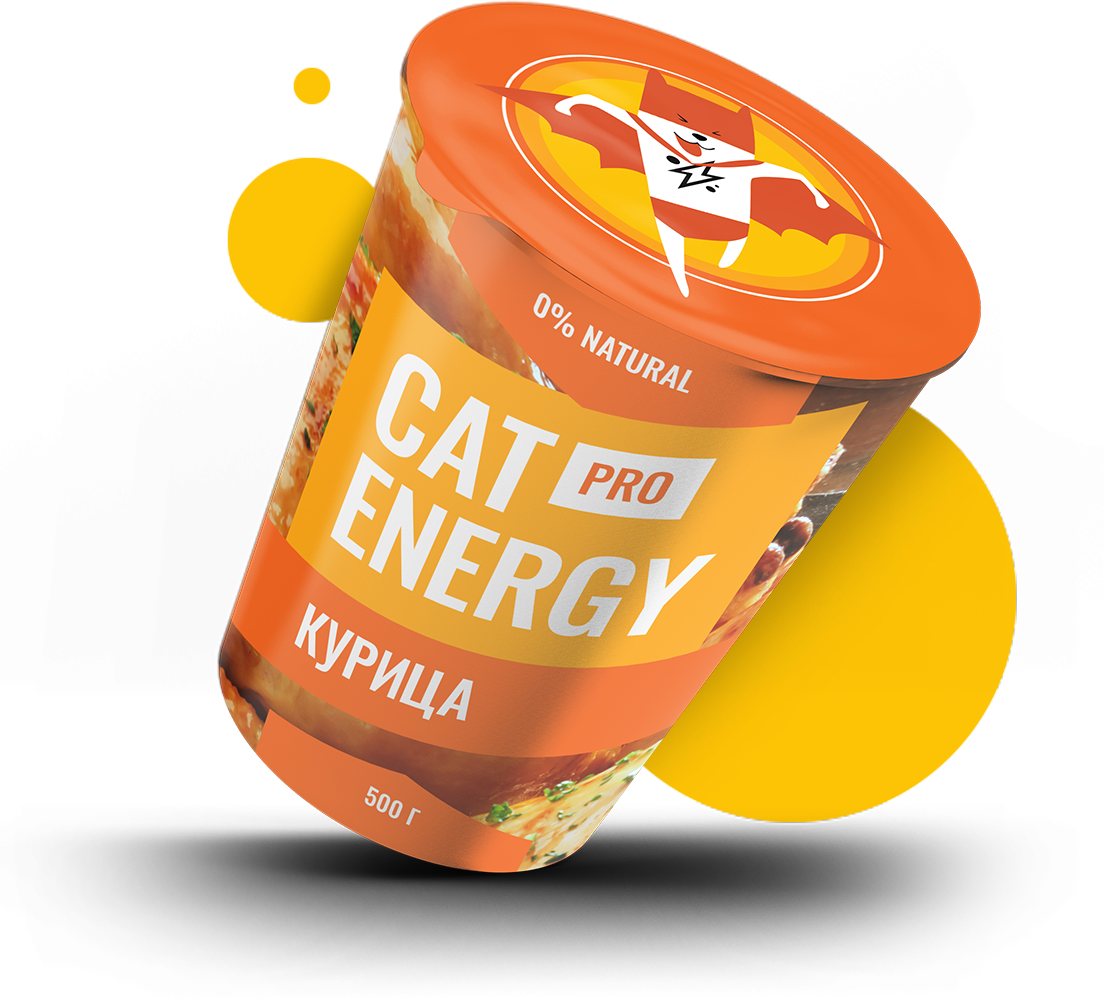
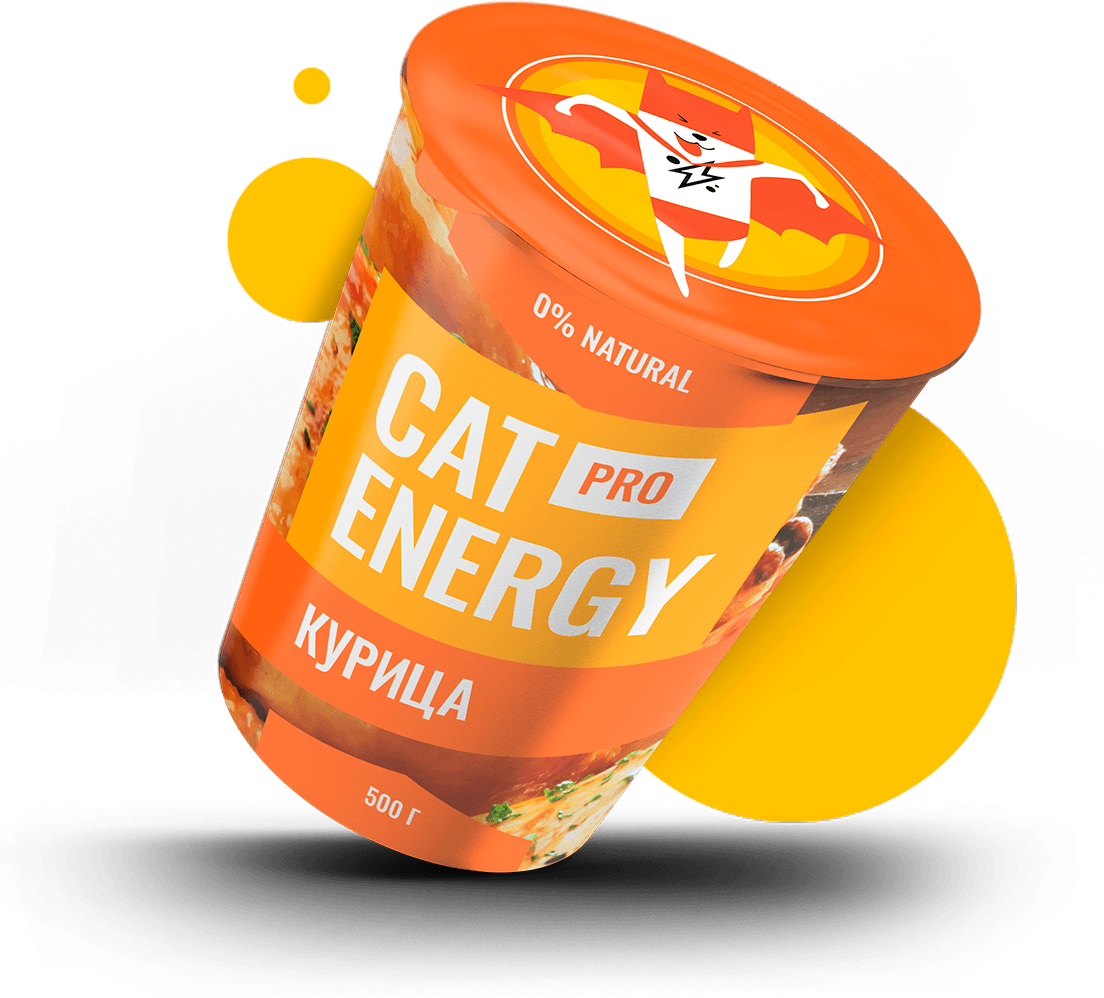
Адаптивная графика добавление изображений

diff --git a/source/catalog.html b/source/catalog.html
@@ -26,7 +26,9 @@
             <a href="index.html" class="site-navigation__link site-navigation__link--black">Главная</a>
           </li>
           <li class="site-navigation__item">
-            <a href="catalog.html" class="site-navigation__link site-navigation__link--black site-navigation__link--current-green site-navigation__link--current">Каталог продукции</a>
+            <a href="catalog.html"
+              class="site-navigation__link site-navigation__link--black site-navigation__link--current-green site-navigation__link--current">Каталог
+              продукции</a>
           </li>
           <li class="site-navigation__item">
             <a href="form.html" class="site-navigation__link site-navigation__link--black">Подбор программы</a>
@@ -42,9 +44,12 @@
         <ul class="catalog-list">
           <li class="catalog-list__item catalog-item">
             <picture class="catalog-item__picture">
-              <source media="(min-width: 1300px)" srcset="img/chicken-small-desktop@1x.png">
-              <source media="(min-width: 768px)" srcset="img/chicken-small-tablet@1x.png">
-              <img class="catalog-item__image" src="img/chicken-small-mobile@1x.jpg" width="140" height="144"
+              <source type="image/webp" media="(min-width: 1300px)" srcset="img/chicken-small-desktop@1x.webp 1x, img/chicken-small-desktop@2x.webp 2x">
+              <source type="image/webp" media="(min-width: 768px)" srcset="img/chicken-small-tablet@1x.webp 1x, img/chicken-small-tablet@2x.webp 2x">
+              <source type="image/webp" srcset="img/chicken-small-mobile@1x.webp 1x, img/chicken-small-mobile@2x.webp 2x">
+              <source media="(min-width: 1300px)" srcset="img/chicken-small-desktop@1x.png 1x, img/chicken-small-desktop@2x.png 2x">
+              <source media="(min-width: 768px)" srcset="img/chicken-small-tablet@1x.png 1x, img/chicken-small-tablet@2x.png 2x">
+              <img class="catalog-item__image" src="img/chicken-small-mobile@1x.jpg 1x" srcset="img/chicken-small-mobile@2x.jpg 2x" width="140" height="144"
                 alt="Продукт со вкусом курица">
             </picture>
             <div class="catalog-item__content">
@@ -83,9 +88,12 @@
           </li>
           <li class="catalog-list__item catalog-item">
             <picture class="catalog-item__picture">
-              <source media="(min-width: 1300px)" srcset="img/chicken-big-desktop@1x.png">
-              <source media="(min-width: 768px)" srcset="img/chicken-big-tablet@1x.png">
-              <img class="catalog-item__image" src="img/chicken-big-mobile@1x.jpg" width="140" height="144"
+              <source type="image/webp" media="(min-width: 1300px)" srcset="img/chicken-big-desktop@1x.webp 1x, img/chicken-big-desktop@2x.webp 2x">
+              <source type="image/webp" media="(min-width: 768px)" srcset="chicken-big-tablet@1x.webp 1x, img/chicken-big-tablet@2x.webp 2x">
+              <source type="image/webp" srcset="img/chicken-big-mobile@1x.jpg 1x, img/chicken-big-mobile@2x.webp 2x">
+              <source media="(min-width: 1300px)" srcset="img/chicken-big-desktop@1x.png 1x, img/chicken-big-desktop@2x.png 2x">
+              <source media="(min-width: 768px)" srcset="img/chicken-big-tablet@1x.png 1x, img/chicken-big-tablet@2x.png 2x">
+              <img class="catalog-item__image" src="img/chicken-big-mobile@1x.jpg 1x" srcset="img/chicken-big-mobile@2x.jpg 2x" width="140" height="144"
                 alt="Продукт со вкусом курица">
             </picture>
             <div class="catalog-item__content">
@@ -124,9 +132,12 @@
           </li>
           <li class="catalog-list__item catalog-item">
             <picture class="catalog-item__picture">
-              <source media="(min-width: 1300px)" srcset="img/fish-small-desktop@1x.png">
-              <source media="(min-width: 768px)" srcset="img/fish-small-tablet@1x.png">
-              <img class="catalog-item__image" src="img/fish-small-mobile@1x.jpg" alt="Продукт со вкусом курица"
+              <source type="image/webp" media="(min-width: 1300px)" srcset="img/fish-small-desktop@1x.webp 1x, img/fish-small-desktop@2x.webp 2x">
+              <source type="image/webp" media="(min-width: 768px)" srcset="img/fish-small-tablet@1x.webp 1x, img/fish-small-tablet@2x.webp 2x">
+              <source type="image/webp" srcset="img/fish-small-mobile@1x.webp 1x, img/fish-small-mobile@2x.webp 2x">
+              <source media="(min-width: 1300px)" srcset="img/fish-small-desktop@1x.png 1x, img/fish-small-desktop@2x.png 2x">
+              <source media="(min-width: 768px)" srcset="img/fish-small-tablet@1x.png 1x, img/fish-small-tablet@2x.png 2x">
+              <img class="catalog-item__image" src="img/fish-small-mobile@1x.jpg 1x" srcset="img/fish-small-mobile@2x.jpg 2x" alt="Продукт со вкусом курица"
                 width="140" height="144">
             </picture>
             <div class="catalog-item__content">
@@ -165,9 +176,12 @@
           </li>
           <li class="catalog-list__item catalog-item">
             <picture class="catalog-item__picture">
-              <source media="(min-width: 1300px)" srcset="img/fish-big-desktop@1x.png">
-              <source media="(min-width: 768px)" srcset="img/fish-big-tablet@1x.png">
-              <img class="catalog-item__image" src="img/fish-big-mobile@1x.jpg" alt="Продукт со вкусом курица"
+              <source type="image/webp" media="(min-width: 1300px)" srcset="img/fish-big-desktop@1x.webp 1x, img/fish-big-desktop@2x.webp 2x">
+              <source type="image/webp" media="(min-width: 768px)" srcset="img/fish-big-tablet@1x.webp 1x, img/fish-big-tablet@2x.webp 2x">
+              <source type="image/webp" srcset="img/fish-big-mobile@1x.webp 1x, img/fish-big-mobile@2x.webp 2x">
+              <source media="(min-width: 1300px)" srcset="img/fish-big-desktop@1x.png 1x, img/fish-big-desktop@2x.png 2x">
+              <source media="(min-width: 768px)" srcset="img/fish-big-tablet@1x.png 1x, img/fish-big-tablet@2x.png 2x">
+              <img class="catalog-item__image" src="img/fish-big-mobile@1x.jpg 1x" srcset="img/fish-big-mobile@2x.jpg 2x" alt="Продукт со вкусом курица"
                 width="140" height="144">
             </picture>
             <div class="catalog-item__content">
@@ -206,9 +220,12 @@
           </li>
           <li class="catalog-list__item catalog-item">
             <picture class="catalog-item__picture">
-              <source media="(min-width: 1300px)" srcset="img/buckwheat-small-desktop@1x.png">
-              <source media="(min-width: 768px)" srcset="img/buckwheat-small-tablet@1x.png">
-              <img class="catalog-item__image" src="img/buckwheat-small-mobile@1x.jpg" alt="Продукт со вкусом курица"
+              <source type="image/webp" media="(min-width: 1300px)" srcset="img/buckwheat-small-desktop@1x.webp 1x, img/buckwheat-small-desktop@2x.webp 2x">
+              <source type="image/webp" media="(min-width: 768px)" srcset="img/buckwheat-small-tablet@1x.webp 1x, img/buckwheat-small-tablet@2x.webp 2x">
+              <source type="image/webp" srcset="img/buckwheat-small-mobile@1x.webp 1x, img/buckwheat-small-mobile@2x.webp 2x">
+              <source media="(min-width: 1300px)" srcset="img/buckwheat-small-desktop@1x.png 1x, img/buckwheat-small-desktop@2x.png 2x">
+              <source media="(min-width: 768px)" srcset="img/buckwheat-small-tablet@1x.png 1x, img/buckwheat-small-tablet@2x.png 2x">
+              <img class="catalog-item__image" src="img/buckwheat-small-mobile@1x.jpg 1x" srcset="img/buckwheat-small-mobile@2x.jpg 2x" alt="Продукт со вкусом курица"
                 width="140" height="144">
             </picture>
             <div class="catalog-item__content">
@@ -247,9 +264,12 @@
           </li>
           <li class="catalog-list__item catalog-item">
             <picture class="catalog-item__picture">
-              <source media="(min-width: 1300px)" srcset="img/buckwheat-big-desktop@1x.png">
-              <source media="(min-width: 768px)" srcset="img/buckwheat-big-tablet@1x.png">
-              <img class="catalog-item__image" src="img/buckwheat-big-mobile@1x.jpg" alt="Продукт со вкусом курица"
+              <source type="image/webp" media="(min-width: 1300px)" srcset="img/buckwheat-big-desktop@1x.webp 1x, img/buckwheat-big-desktop@2x.webp 2x">
+              <source type="image/webp" media="(min-width: 768px)" srcset="img/buckwheat-big-tablet@1x.webp 1x, img/buckwheat-big-tablet@2x.webp 2x">
+              <source type="image/webp" srcset="img/buckwheat-big-mobile@1x.webp 1x, img/buckwheat-big-mobile@2x.webp 2x">
+              <source media="(min-width: 1300px)" srcset="img/buckwheat-big-desktop@1x.png 1x, img/buckwheat-big-desktop@2x.png 2x">
+              <source media="(min-width: 768px)" srcset="img/buckwheat-big-tablet@1x.png 1x, img/buckwheat-big-tablet@2x.png 2x">
+              <img class="catalog-item__image" src="img/buckwheat-big-mobile@1x.jpg 1x" srcset="img/buckwheat-big-mobile@2x.jpg 2x" alt="Продукт со вкусом курица"
                 width="140" height="144">
             </picture>
             <div class="catalog-item__content">
@@ -288,9 +308,12 @@
           </li>
           <li class="catalog-list__item catalog-item">
             <picture class="catalog-item__picture">
-              <source media="(min-width: 1300px)" srcset="img/rice-small-desktop@1x.png">
-              <source media="(min-width: 768px)" srcset="img/rice-small-tablet@1x.png">
-              <img class="catalog-item__image" src="img/rice-small-mobile@1x.jpg" alt="Продукт со вкусом курица"
+              <source type="image/webp" media="(min-width: 1300px)" srcset="img/rice-small-desktop@1x.webp 1x, img/rice-small-desktop@2x.webp 2x">
+              <source type="image/webp" media="(min-width: 768px)" srcset="img/rice-small-tablet@1x.webp 1x, img/rice-small-tablet@2x.webp 2x">
+              <source type="image/webp" srcset="img/rice-small-mobile@1x.webp 1x, img/rice-small-mobile@2x.webp 2x">
+              <source media="(min-width: 1300px)" srcset="img/rice-small-desktop@1x.png 1x, img/rice-small-desktop@2x.png 2x">
+              <source media="(min-width: 768px)" srcset="img/rice-small-tablet@1x.png 1x, img/rice-small-tablet@2x.png 2x">
+              <img class="catalog-item__image" src="img/rice-small-mobile@1x.jpg 1x" srcset="img/rice-small-mobile@2x.jpg 2x" alt="Продукт со вкусом курица"
                 width="140" height="144">
             </picture>
             <div class="catalog-item__content">
@@ -406,10 +429,13 @@
     </div>
     <div class="map-block">
       <picture class="map-block__picture">
-        <source media="(min-width: 1300px)" srcset="img/bg-map-desktop@1x.png">
-        <source media="(min-width: 768px)" srcset="img/bg-map-tablet@1x.png">
-        <img class="map-block__image" src="img/bg-map-mobile@1x.png" width="320" height="365"
-          alt="Адрес местонахождения компании">
+        <source type="image/webp" media="(min-width: 1300px)" srcset="img/bg-map-desktop@1x.webp 1x, img/bg-map-desktop@2x.webp 2x">
+        <source type="image/webp" media="(min-width: 768px)" srcset="img/bg-map-tablet@1x.webp 1x, img/bg-map-tablet@2x.webp 2x">
+        <source type="image/webp" srcset="img/bg-map-mobile@1x.webp 1x, img/bg-map-mobile@2x.webp 2x">
+        <source media="(min-width: 1300px)" srcset="img/bg-map-desktop@1x.jpg 1x, img/img/bg-map-desktop@2x.jpg 2x">
+        <source media="(min-width: 768px)" srcset="img/bg-map-tablet@1x.jpg 1x, img/bg-map-tablet@2x.jpg 2x">
+        <img class="map-block__image" src="img/bg-map-mobile@1x.jpg 1x" srcset="img/bg-map-mobile@2x.jpg 2x" width="320"
+          height="365" alt="Адрес местонахождения компании">
       </picture>
     </div>
   </section>

diff --git a/source/index.html b/source/index.html
@@ -34,9 +34,9 @@
         </ul>
       </nav>
     </div>
-    <div class="page-header__block-green">
+    <!-- <div class="page-header__block-green">
 
-    </div>
+    </div> -->
   </header>
   <main class="page-main">
     <section class="promo">
@@ -45,10 +45,16 @@
           <h1 class="promo__title">Функциональное питание для котов</h1>
           <p class="promo__subtitle">Занялся собой? Займись котом!</p>
           <picture class="promo__picture">
-            <source media="(min-width: 1300px)" srcset="img/index-can-desktop@1x.png">
-            <source media="(min-width: 768px)" srcset="img/index-can-tablet@1x.jpg">
-            <img class="promo__image" src="img/index-can-mobile@1x.png" width="280" height="270"
-              alt="Магазин Cat Energy">
+            <source type="image/webp" media="(min-width: 1300px)"
+              srcset="img/index-can-desktop@1x.webp 1x, img/index-can-desktop@2x.webp 2x">
+            <source type="image/webp" media="(min-width: 768px)"
+              srcset="img/index-can-tablet@1x.webp 1x, img/index-can-tablet@2x.webp 2x">
+            <source type="image/webp" srcset="img/index-can-mobile@1x.webp 1x, img/index-can-mobile@2x.webp 2x">
+            <source media="(min-width: 1300px)"
+              srcset="img/index-can-desktop@1x.png 1x, img/index-can-desktop@2x.png 2x">
+            <source media="(min-width: 768px)" srcset="img/index-can-tablet@1x.jpg 1x, img/index-can-tablet@2x.jpg 2x">
+            <img class="promo__image" src="img/index-can-mobile@1x.png 1x" srcset="img/index-can-mobile@2x.png 2x"
+              width="280" height="270" alt="Магазин Cat Energy">
           </picture>
           <a href="#" class="promo__link button">Подобрать программу</a>
         </div>
@@ -77,7 +83,6 @@
           </li>
         </ul>
       </section>
-
       <section class="how-it-works">
         <h2 class="how-it-works__title">Как это работает</h2>
         <ul class="how-it-works__steps">
@@ -136,18 +141,28 @@
         <div class="example__preview">
           <div class="example__image-before">
             <picture class="example__picture">
-              <source media="(min-width: 1300px)" srcset="img/before-desktop@1x.png">
-              <source media="(min-width: 768px)" srcset="img/before-tablet@1x.png">
-              <img class="example__picture-image" src="img/before-mobile@1x.png" width="311" height="232"
-                alt="Кот который жирный">
+              <source type="image/webp" media="(min-width: 1300px)"
+                srcset="img/before-desktop@1x.webp 1x, img/before-desktop@2x.webp 2x">
+              <source type="image/webp" media="(min-width: 768px)"
+                srcset="img/before-tablet@1x.webp 1x, img/before-tablet@2x.webp 2x">
+              <source type="image/webp" srcset="img/before-mobile@1x.webp 1x, img/before-mobile@2x.webp 2x">
+              <source media="(min-width: 1300px)" srcset="img/before-desktop@1x.png 1x, img/before-desktop@2x.png 2x">
+              <source media="(min-width: 768px)" srcset="img/before-tablet@1x.png 1x, img/before-tablet@2x.png 2x">
+              <img class="example__picture-image" src="img/before-mobile@1x.png 1x" srcset="img/before-mobile@2x.png 2x"
+                width="311" height="232" alt="Кот который жирный">
             </picture>
           </div>
           <div class="example__image-after">
             <picture class="example__picture">
-              <source media="(min-width: 1300px)" srcset="img/after-desktop@1x.png">
-              <source media="(min-width: 768px)" srcset="img/after-tablet@1x.png">
-              <img class="example__picture-image" src="img/after-mobile@1x.png" width="311" height="232"
-                alt="Кот который не жирный">
+              <source type="image/webp" media="(min-width: 1300px)"
+                srcset="img/after-desktop@1x.webp 1x, img/after-desktop@2x.webp 2x">
+              <source type="image/webp" media="(min-width: 768px)"
+                srcset="img/after-tablet@1x.webp1x, img/after-tablet@2x.webp 2x">
+              <source type="image/webp" srcset="img/after-mobile@1x.webp 1x, img/after-mobile@2x.webp 2x">
+              <source media="(min-width: 1300px)" srcset="img/after-desktop@1x.png 1x, img/after-desktop@2x.png 2x">
+              <source media="(min-width: 768px)" srcset="img/after-tablet@1x.png 1x, img/after-tablet@2xx.png 2x">
+              <img class="example__picture-image" src="img/after-mobile@1x.png 1x" srcset="img/after-mobile@2x.png 2x"
+                width="311" height="232" alt="Кот который не жирный">
             </picture>
           </div>
           <div class="example__block-toggle">
@@ -174,10 +189,13 @@
       </div>
       <div class="map-block">
         <picture class="map-block__picture">
-          <source media="(min-width: 1300px)" srcset="img/bg-map-desktop@1x.png">
-          <source media="(min-width: 768px)" srcset="img/bg-map-tablet@1x.png">
-          <img class="map-block__image" src="img/bg-map-mobile@1x.png" width="320" height="365"
-            alt="Адрес местонахождения компании">
+          <source type="image/webp" media="(min-width: 1300px)" srcset="img/bg-map-desktop@1x.webp 1x, img/bg-map-desktop@2x.webp 2x">
+          <source type="image/webp" media="(min-width: 768px)" srcset="img/bg-map-tablet@1x.webp 1x, img/bg-map-tablet@2x.webp 2x">
+          <source type="image/webp" srcset="img/bg-map-mobile@1x.webp 1x, img/bg-map-mobile@2x.webp 2x">
+          <source media="(min-width: 1300px)" srcset="img/bg-map-desktop@1x.jpg 1x, img/img/bg-map-desktop@2x.jpg 2x">
+          <source media="(min-width: 768px)" srcset="img/bg-map-tablet@1x.jpg 1x, img/bg-map-tablet@2x.jpg 2x">
+          <img class="map-block__image" src="img/bg-map-mobile@1x.jpg 1x" srcset="img/bg-map-mobile@2x.jpg 2x"
+            width="320" height="365" alt="Адрес местонахождения компании">
         </picture>
       </div>
     </section>

diff --git a/source/form.html b/source/form.html
@@ -175,14 +175,16 @@
     </div>
     <div class="map-block">
       <picture class="map-block__picture">
-        <source media="(min-width: 768px)" srcset="img/bg-map-tablet@1x.png">
-        <source media="(min-width: 1300px)" srcset="img/bg-map-desktop@1x.png">
-        <img class="map-block__image" src="img/bg-map-mobile@1x.png" width="320" height="365"
-          alt="Адрес местонахождения компании">
+        <source type="image/webp" media="(min-width: 1300px)" srcset="img/bg-map-desktop@1x.webp 1x, img/bg-map-desktop@2x.webp 2x">
+        <source type="image/webp" media="(min-width: 768px)" srcset="img/bg-map-tablet@1x.webp 1x, img/bg-map-tablet@2x.webp 2x">
+        <source type="image/webp" srcset="img/bg-map-mobile@1x.webp 1x, img/bg-map-mobile@2x.webp 2x">
+        <source media="(min-width: 1300px)" srcset="img/bg-map-desktop@1x.jpg 1x, img/img/bg-map-desktop@2x.jpg 2x">
+        <source media="(min-width: 768px)" srcset="img/bg-map-tablet@1x.jpg 1x, img/bg-map-tablet@2x.jpg 2x">
+        <img class="map-block__image" src="img/bg-map-mobile@1x.jpg 1x" srcset="img/bg-map-mobile@2x.jpg 2x" width="320"
+          height="365" alt="Адрес местонахождения компании">
       </picture>
     </div>
   </section>
-
   <footer class="page-footer">
     <div class="page-footer__container">
       <div class="page-footer__logo logo-text">

diff --git a/source/sass/blocks/page-header.scss b/source/sass/blocks/page-header.scss
@@ -2,6 +2,24 @@
   display: flex;
   align-items: center;
   min-height: 65px;
+
+  &::before {
+    @include desktop-width {
+      @include pos-absolute();
+      width: 50vw;
+      display: block;
+      height: 696px;
+      background-color: $color-green;
+      z-index: 0;
+      background-image: url("../img/index-background-desktop@1x.jpg");
+      background-repeat: no-repeat;
+    }
+
+    @include retina {
+      background-image: url("../img/index-background-desktop@2x.jpg");
+      background-size: 726px auto;
+    }
+  }
 }
 
 .page-header__container {
@@ -40,17 +58,17 @@
   }
 }
 
-.page-header__block-green {
-  display: none;
+// .page-header__block-green {
+//   display: none;
 
-  @include desktop-width {
-    @include pos-absolute();
-    width: 50vw;
-    display: block;
-    height: 696px;
-    background-color: $color-green;
-    z-index: 0;
-    background-image: url("../img/index-background-desktop@1x.jpg");
-    background-repeat: no-repeat;
-  }
-}
+//   @include desktop-width {
+//     @include pos-absolute();
+//     width: 50vw;
+//     display: block;
+//     height: 696px;
+//     background-color: $color-green;
+//     z-index: 0;
+//     background-image: url("../img/index-background-desktop@1x.jpg");
+//     background-repeat: no-repeat;
+//   }
+// }

diff --git a/source/sass/blocks/example.scss b/source/sass/blocks/example.scss
@@ -105,7 +105,7 @@
 }
 
 .example__image-after {
-  display: none;
+  display: block;
 
   @include tablet-width {
     @include pos-absolute(-3px, 30px, auto, auto);
@@ -128,10 +128,11 @@
 }
 
 .example__block-toggle {
-  margin-top: 49px;
   display: flex;
   align-items: center;
   justify-content: center;
+  height: 30px;
+  margin-top: 49px;
 
   @include tablet-width {
     margin-top: 12px;

diff --git a/source/sass/general/mixins.scss b/source/sass/general/mixins.scss
@@ -56,7 +56,7 @@
   }
 
   @include desktop-width {
-    max-width: 1300px;
+    max-width: 1440px;
     padding-left: 110px;
     padding-right: 110px;
   }
@@ -84,6 +84,12 @@
 
 @mixin desktop-width {
   @media (min-width: $desktop-width) {
+    @content;
+  }
+}
+
+@mixin retina {
+  @media (min-resolution: $retina-dppx) {
     @content;
   }
 }

diff --git a/source/sass/blocks/cooperation.scss b/source/sass/blocks/cooperation.scss
@@ -21,9 +21,9 @@
   @include desktop-width {
     @include pos-absolute(90px, auto, auto, 110px);
     width: 570px;
-    padding-top: 70px;
+    padding-top: 65px;
     padding-right: 90px;
-    padding-bottom: 60px;
+    padding-bottom: 55px;
     padding-left: 76px;
     background-color: #ffffff;
   }

diff --git a/source/sass/general/variables.scss b/source/sass/general/variables.scss
@@ -10,3 +10,4 @@ $text-green: #68b738;
 $desktop-width: 1300px;
 $tablet-width: 768px;
 $mobile-width: 320px;
+$retina-dppx: 1.5dppx;

diff --git a/source/sass/blocks/promo.scss b/source/sass/blocks/promo.scss
@@ -101,6 +101,7 @@
 
 .promo__link {
   margin-top: -3px;
+  width: auto;
 
   @include tablet-width {
     padding-top: 15px;

diff --git a/source/sass/blocks/button.scss b/source/sass/blocks/button.scss
@@ -28,5 +28,3 @@
     }
   }
 }
-
-
